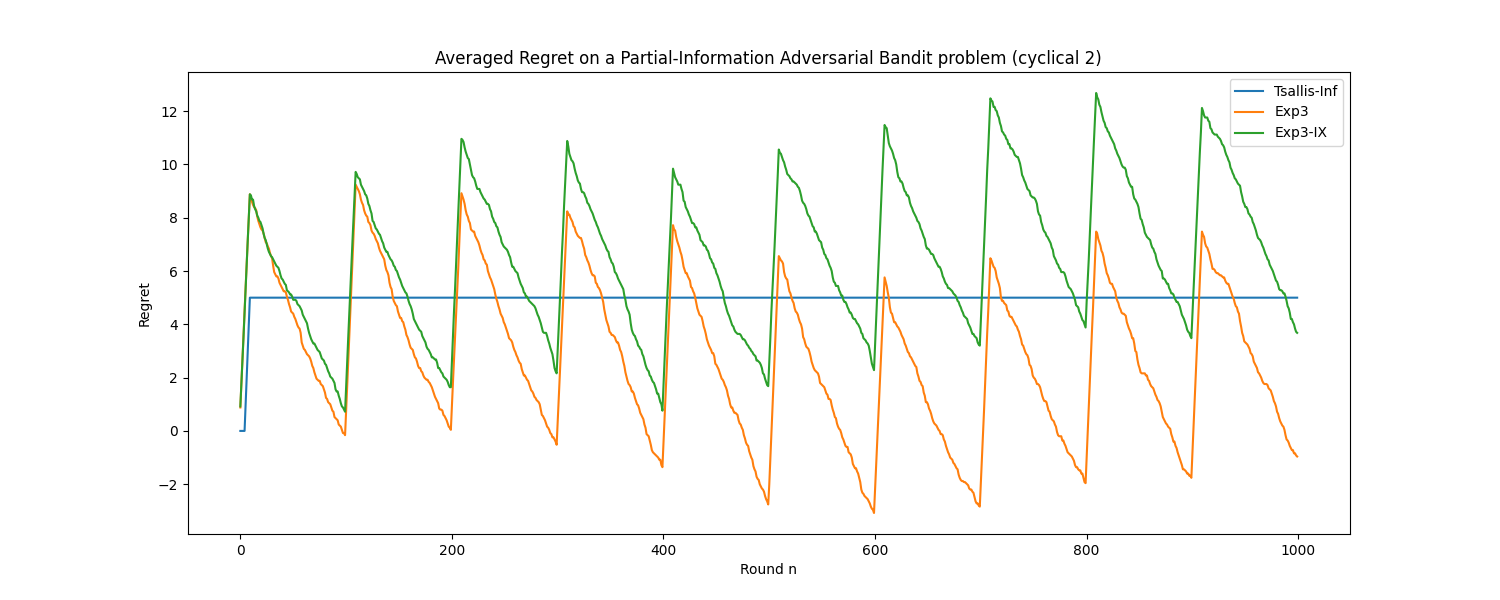
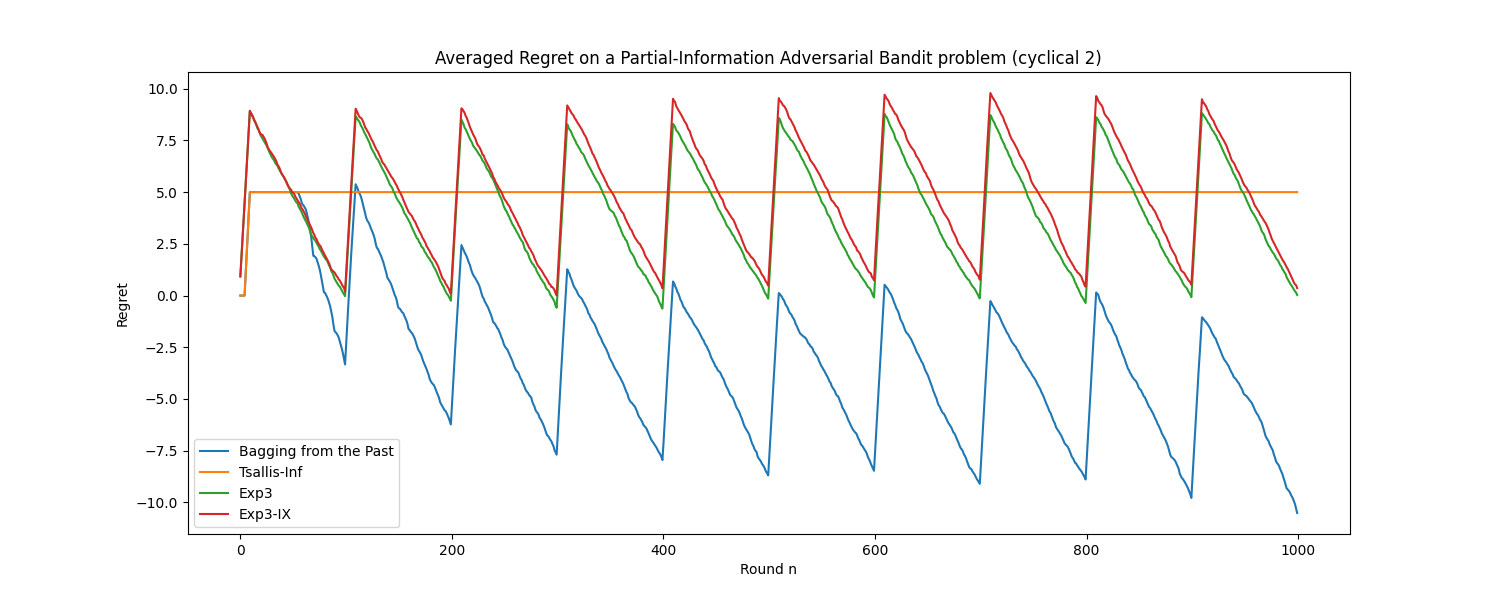
Recent Results

diff --git a/giro_non_contextual.py b/giro_non_contextual.py
@@ -40,23 +40,30 @@ def GIRO_arm_estimates_factory_function(A):
     return GIRO_arm_estimates_function
 
 
-def UCB_arm_estimates_function(history, t, N):
+def UCB_factory(partial_info = False):
 
-    num_arms = len(history)
-    arm_estimates_current_round = np.zeros(shape=K)
-    for j in range(num_arms):
+    def UCB_arm_estimates_function(history, t, N):
 
-        s = len(history[j])
+        num_arms = len(history)
+        arm_estimates_current_round = np.zeros(shape=K)
+        for j in range(num_arms):
 
-        if (s > 0):
-            f_hat_pi = np.mean(history[j])
-            f_t = 1 + (t * (math.log(t)**2))
-            half_confidence_interval_width = math.sqrt((2 * math.log(f_t)) / (s))
-            arm_estimates_current_round[j] = f_hat_pi + half_confidence_interval_width
+            s = len(history[j])
+
+            if (s > 0):
+                f_hat_pi = np.mean(history[j])
+                f_t = 1 + (t * (math.log(t)**2))
+                half_confidence_interval_width = math.sqrt((2 * math.log(f_t)) / (s))
+                arm_estimates_current_round[j] = f_hat_pi + half_confidence_interval_width
+            else:
+                arm_estimates_current_round[j] = np.inf
+
+        if (partial_info == False):
+            return np.argmax(arm_estimates_current_round)
         else:
-            arm_estimates_current_round[j] = np.inf
-
-    return np.argmax(arm_estimates_current_round)
+            return [np.argmax(arm_estimates_current_round), 1]
+        
+    return UCB_arm_estimates_function
 
 
 def TS_arm_estimates_function(history, t, N):
@@ -107,7 +114,7 @@ def bagging_from_past_into_future_factory(initial_exploration, partial_info = Fa
                 return [math.floor(t / 5), 1]
 
             num_counts = np.zeros(shape = num_arms)
-            num_bootstrap_simulations = 100
+            num_bootstrap_simulations = 30
 
             for n in range(num_bootstrap_simulations):
 
@@ -135,7 +142,7 @@ def bagging_from_past_into_future_factory(initial_exploration, partial_info = Fa
         return bagging_from_past_into_future_partial
 
 
-def explore_then_commit_factory(initial_exploration):
+def explore_then_commit_factory(initial_exploration, partial_info = False):
 
     def explore_then_commit(history, t, N):
         num_arms = len(history)
@@ -149,7 +156,10 @@ def explore_then_commit_factory(initial_exploration):
             else:
                 arm_estimates_current_round[j] = np.mean(history[j])
 
-        return np.argmax(arm_estimates_current_round)
+        if (partial_info == False):
+            return np.argmax(arm_estimates_current_round)
+        else:
+            return [np.argmax(arm_estimates_current_round), 1]
     
     return explore_then_commit
 
@@ -285,7 +295,7 @@ def stochastically_constrained_adversarial(mu, t):
 # simulate K-armed
 # full information problem 
 # and return accumulated regret
-def simulate_full_information_problem(K, T, generate_rewards, get_arm_to_pull, M=100, ts = False):
+def simulate_full_information_problem(K, T, generate_rewards, get_arm_to_pull, M=50, ts = False):
 
     # data_structure to keep track of the
     # accumulated regret up to the current round
@@ -346,7 +356,7 @@ def simulate_full_information_problem(K, T, generate_rewards, get_arm_to_pull, M
 # simulate K-armed
 # partial information problem 
 # and return accumulated regret
-def simulate_partial_information_problem(K, T, generate_rewards, get_arm_and_weight_to_pull, M=100):
+def simulate_partial_information_problem(K, T, generate_rewards, get_arm_and_weight_to_pull, M=25, isStochastic = False):
 
     # data_structure to keep track of the
     # accumulated regret up to the current round
@@ -358,15 +368,20 @@ def simulate_partial_information_problem(K, T, generate_rewards, get_arm_and_wei
         # to hold the history of each arm
         importance_weighted_history = []
         history = []
+        stochastic_history = []
         for i in range(K):
             importance_weighted_history.append([])
+            stochastic_history.append([])
             history.append([])
 
         current_losses = np.zeros(shape = T)
 
         for t in range(T):
             # estimate arm values 
-            arm_and_weight = get_arm_and_weight_to_pull(importance_weighted_history, t, T)
+            if (isStochastic == False):
+                arm_and_weight = get_arm_and_weight_to_pull(importance_weighted_history, t, T)
+            else:
+                arm_and_weight = get_arm_and_weight_to_pull(stochastic_history, t, T)
             I_t = arm_and_weight[0]
             P_ti = arm_and_weight[1]
     
@@ -382,6 +397,7 @@ def simulate_partial_information_problem(K, T, generate_rewards, get_arm_and_wei
             for i in range(K): 
                 if (i == I_t):
                     importance_weighted_history[i].append(((1 - r_t[i]) / P_ti))
+                    stochastic_history[i].append(r_t[i])
                 else:
                     importance_weighted_history[i].append(0)
                 history[i].append(1 - r_t[i])
@@ -411,7 +427,7 @@ arms_mean[7] = 0.86
 
 plt.rcParams["figure.figsize"] = (15,6)
 
-plt.plot(range(T), simulate_partial_information_problem(K = K, T = T, generate_rewards = stochastically_constrained_adversarial, 
+""" plt.plot(range(T), simulate_partial_information_problem(K = K, T = T, generate_rewards = stochastically_constrained_adversarial, 
                                                         get_arm_and_weight_to_pull = bagging_from_past_into_future_factory(5, partial_info=True)), label="Bagging from the Past")
 plt.plot(range(T), simulate_partial_information_problem(K = K, T = T, generate_rewards = stochastically_constrained_adversarial, 
                                                         get_arm_and_weight_to_pull = tsallis_inf), label="Tsallis-Inf")
@@ -441,9 +457,9 @@ plt.legend()
 plt.ylabel('Regret')
 plt.xlabel('Round n')
 plt.savefig('PI A1')
-plt.close()
+plt.close() """
 
-plt.plot(range(T), simulate_partial_information_problem(K = K, T = T, generate_rewards = adversarial_data_2, 
+""" plt.plot(range(T), simulate_partial_information_problem(K = K, T = T, generate_rewards = adversarial_data_2, 
                                                         get_arm_and_weight_to_pull = bagging_from_past_into_future_factory(5, partial_info=True)), label="Bagging from the Past")
 plt.plot(range(T), simulate_partial_information_problem(K = K, T = T, generate_rewards = adversarial_data_2, get_arm_and_weight_to_pull = tsallis_inf), label="Tsallis-Inf")
 plt.plot(range(T), simulate_partial_information_problem(K = K, T = T, generate_rewards = adversarial_data_2, get_arm_and_weight_to_pull = exp3), label="Exp3")
@@ -454,9 +470,9 @@ plt.legend()
 plt.ylabel('Regret')
 plt.xlabel('Round n')
 plt.savefig('PI A2')
-plt.close()
+plt.close() """
 
-plt.plot(range(T), simulate_partial_information_problem(K = K, T = T, generate_rewards = adversarial_data_3, get_arm_and_weight_to_pull = bagging_from_past_into_future_factory(5)), label="Bagging from the Past")
+""" plt.plot(range(T), simulate_partial_information_problem(K = K, T = T, generate_rewards = adversarial_data_3, get_arm_and_weight_to_pull = bagging_from_past_into_future_factory(5, partial_info=True)), label="Bagging from the Past")
 plt.plot(range(T), simulate_partial_information_problem(K = K, T = T, generate_rewards = adversarial_data_3, get_arm_and_weight_to_pull = tsallis_inf), label="Tsallis-Inf")
 plt.plot(range(T), simulate_partial_information_problem(K = K, T = T, generate_rewards = adversarial_data_3, get_arm_and_weight_to_pull = exp3), label="Exp3")
 plt.plot(range(T), simulate_partial_information_problem(K = K, T = T, generate_rewards = adversarial_data_3, get_arm_and_weight_to_pull = exp3_ix), label="Exp3-IX")
@@ -466,15 +482,20 @@ plt.legend()
 plt.ylabel('Regret')
 plt.xlabel('Round n')
 plt.savefig('PI A3')
-plt.close()
+plt.close() """
 
 arms_mean = np.full(shape = K, fill_value = 0.5)
 
-plt.plot(range(T), simulate_full_information_problem(K = K, T = T, generate_rewards = bernoulli_bandit, get_arm_to_pull = hedge), label="Hedge")
-plt.plot(range(T), simulate_full_information_problem(K = K, T = T, generate_rewards = bernoulli_bandit, get_arm_to_pull = bagging_from_past_into_future_factory(5)), label="Bagging from the Past")
-plt.plot(range(T), simulate_full_information_problem(K = K, T = T, generate_rewards = bernoulli_bandit, get_arm_to_pull = explore_then_commit_factory(5)), label="Explore-then-Commit")
-plt.plot(range(T), simulate_full_information_problem(K= K, T = T, generate_rewards = bernoulli_bandit, get_arm_to_pull = UCB_arm_estimates_function), label="Upper-Confidence-Bound")
-plt.title("Averaged Regret on the Full-Information Stochastic Bernoulli Bandit problem (No Gap)")
+plt.plot(range(T), simulate_partial_information_problem(K = K, T = T, generate_rewards = bernoulli_bandit, 
+                                                        get_arm_and_weight_to_pull = UCB_factory(partial_info = True), isStochastic = True), label="Upper-Confidence-Bound")
+plt.plot(range(T), simulate_partial_information_problem(K = K, T = T, generate_rewards = bernoulli_bandit, 
+                                                        get_arm_and_weight_to_pull = explore_then_commit_factory(5, partial_info = True), isStochastic = True), label="Explore-then-Commit")
+plt.plot(range(T), simulate_partial_information_problem(K = K, T = T, generate_rewards = bernoulli_bandit, get_arm_and_weight_to_pull = exp3), label="Exp3")
+plt.plot(range(T), simulate_partial_information_problem(K = K, T = T, generate_rewards = bernoulli_bandit, get_arm_and_weight_to_pull = exp3_ix), label="Exp3-IX")
+plt.plot(range(T), simulate_partial_information_problem(K = K, T = T, generate_rewards = bernoulli_bandit, get_arm_and_weight_to_pull = tsallis_inf), label="Tsallis-Inf")
+plt.plot(range(T), simulate_partial_information_problem(K = K, T = T, generate_rewards = bernoulli_bandit, 
+                                                        get_arm_and_weight_to_pull = bagging_from_past_into_future_factory(5, partial_info=True), isStochastic = True), label="Bagging from the Past")
+plt.title("Averaged Regret on the Partial-Information Stochastic Bernoulli Bandit problem (No Gap)")
 
 plt.legend()
 plt.ylabel('Regret')
@@ -484,11 +505,16 @@ plt.close()
 
 arms_mean[4] = 0.52
 
-plt.plot(range(T), simulate_full_information_problem(K = K, T = T, generate_rewards = bernoulli_bandit, get_arm_to_pull = hedge), label="Hedge")
-plt.plot(range(T), simulate_full_information_problem(K = K, T = T, generate_rewards = bernoulli_bandit, get_arm_to_pull = bagging_from_past_into_future_factory(5)), label="Bagging from the Past")
-plt.plot(range(T), simulate_full_information_problem(K = K, T = T, generate_rewards = bernoulli_bandit, get_arm_to_pull = explore_then_commit_factory(5)), label="Explore-then-Commit")
-plt.plot(range(T), simulate_full_information_problem(K= K, T = T, generate_rewards = bernoulli_bandit, get_arm_to_pull = UCB_arm_estimates_function), label="Upper-Confidence-Bound")
-plt.title("Averaged Regret on the Full-Information Stochastic Bernoulli Bandit problem (Low Gap)")
+plt.plot(range(T), simulate_partial_information_problem(K = K, T = T, generate_rewards = bernoulli_bandit, 
+                                                        get_arm_and_weight_to_pull = UCB_factory(partial_info = True), isStochastic = True), label="Upper-Confidence-Bound")
+plt.plot(range(T), simulate_partial_information_problem(K = K, T = T, generate_rewards = bernoulli_bandit, 
+                                                        get_arm_and_weight_to_pull = explore_then_commit_factory(5, partial_info = True), isStochastic = True), label="Explore-then-Commit")
+plt.plot(range(T), simulate_partial_information_problem(K = K, T = T, generate_rewards = bernoulli_bandit, get_arm_and_weight_to_pull = exp3), label="Exp3")
+plt.plot(range(T), simulate_partial_information_problem(K = K, T = T, generate_rewards = bernoulli_bandit, get_arm_and_weight_to_pull = exp3_ix), label="Exp3-IX")
+plt.plot(range(T), simulate_partial_information_problem(K = K, T = T, generate_rewards = bernoulli_bandit, get_arm_and_weight_to_pull = tsallis_inf), label="Tsallis-Inf")
+plt.plot(range(T), simulate_partial_information_problem(K = K, T = T, generate_rewards = bernoulli_bandit, 
+                                                        get_arm_and_weight_to_pull = bagging_from_past_into_future_factory(5, partial_info=True), isStochastic = True), label="Bagging from the Past")
+plt.title("Averaged Regret on the Partial-Information Stochastic Bernoulli Bandit problem (Low Gap)")
 
 plt.legend()
 plt.ylabel('Regret')
@@ -499,11 +525,16 @@ plt.close()
 arms_mean = np.random.uniform(low = 0.1, high = 0.5, size = K)
 arms_mean[4] = 0.75
 
-plt.plot(range(T), simulate_full_information_problem(K = K, T = T, generate_rewards = bernoulli_bandit, get_arm_to_pull = hedge), label="Hedge")
-plt.plot(range(T), simulate_full_information_problem(K = K, T = T, generate_rewards = bernoulli_bandit, get_arm_to_pull = bagging_from_past_into_future_factory(5)), label="Bagging from the Past")
-plt.plot(range(T), simulate_full_information_problem(K = K, T = T, generate_rewards = bernoulli_bandit, get_arm_to_pull = explore_then_commit_factory(5)), label="Explore-then-Commit")
-plt.plot(range(T), simulate_full_information_problem(K= K, T = T, generate_rewards = bernoulli_bandit, get_arm_to_pull = UCB_arm_estimates_function), label="Upper-Confidence-Bound")
-plt.title("Averaged Regret on the Full-Information Stochastic Bernoulli Bandit problem (High Gap)")
+plt.plot(range(T), simulate_partial_information_problem(K = K, T = T, generate_rewards = bernoulli_bandit, 
+                                                        get_arm_and_weight_to_pull = UCB_factory(partial_info = True), isStochastic = True), label="Upper-Confidence-Bound")
+plt.plot(range(T), simulate_partial_information_problem(K = K, T = T, generate_rewards = bernoulli_bandit, 
+                                                        get_arm_and_weight_to_pull = explore_then_commit_factory(5, partial_info = True), isStochastic = True), label="Explore-then-Commit")
+plt.plot(range(T), simulate_partial_information_problem(K = K, T = T, generate_rewards = bernoulli_bandit, get_arm_and_weight_to_pull = exp3), label="Exp3")
+plt.plot(range(T), simulate_partial_information_problem(K = K, T = T, generate_rewards = bernoulli_bandit, get_arm_and_weight_to_pull = exp3_ix), label="Exp3-IX")
+plt.plot(range(T), simulate_partial_information_problem(K = K, T = T, generate_rewards = bernoulli_bandit, get_arm_and_weight_to_pull = tsallis_inf), label="Tsallis-Inf")
+plt.plot(range(T), simulate_partial_information_problem(K = K, T = T, generate_rewards = bernoulli_bandit, 
+                                                        get_arm_and_weight_to_pull = bagging_from_past_into_future_factory(5, partial_info=True), isStochastic = True), label="Bagging from the Past")
+plt.title("Averaged Regret on the Partial-Information Stochastic Bernoulli Bandit problem (High Gap)")
 
 plt.legend()
 plt.ylabel('Regret')
